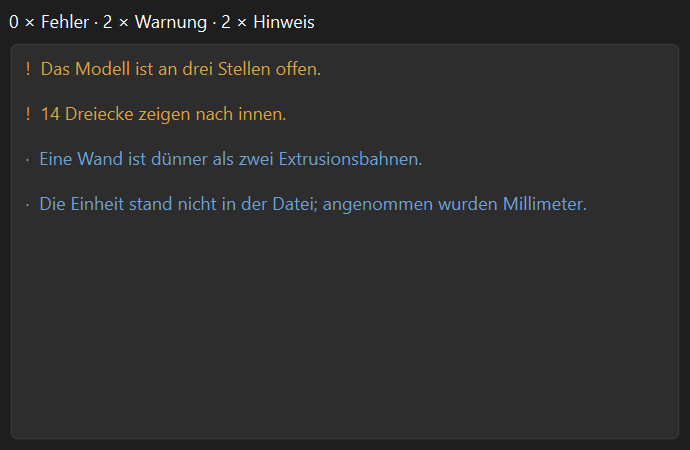
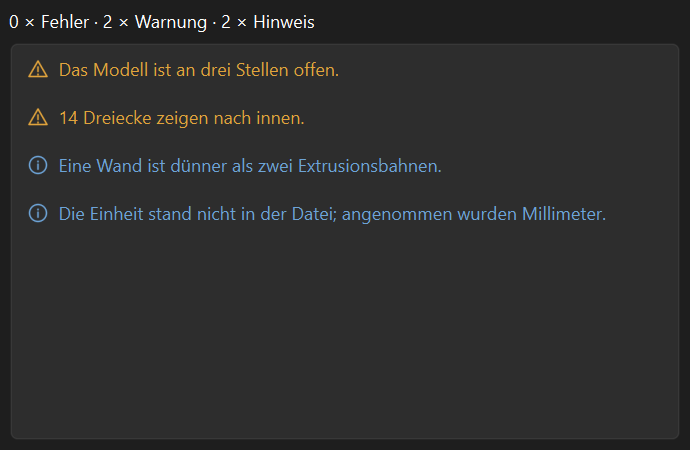
Ein Ausrufezeichen im Text war die Behelfslösung, die man ihr ansah
Die beiden anderen Stellen, an denen ein Zeichen mehr sagt als ein Zeichen.

**Der Prüfbericht** stellte den Schweregrad als „!" oder „·" vor den Text. Das
erfüllte Regel 18 — Bedeutung nie allein über Farbe —, sah aber nach Behelf
aus. Jetzt tragen Warndreieck, Info-Kreis und Fehler-Achteck die Form, die
Farbe verstärkt sie nur. Das sind Zeichen, die niemand lernen muss, und sie
bleiben lesbar, wo die Farbe nicht ankommt.

**Die Erstinbetriebnahme** setzte ein Plus- und ein Minuszeichen vor jedes
externe Programm. Das war die kryptischste Stelle im allerersten Dialog, den
ein neuer Benutzer sieht. Dort stehen jetzt Wörter: „gefunden — OpenSCAD: …",
„fehlt — Ollama: Antwortet nicht …". Ein Icon wäre hier falsch gewesen; die
Zeile ist Fließtext, kein Listeneintrag, und zwei gesparte Zeichen sind kein
Grund zum Raten.

`icons.icon()` nimmt jetzt eine Farbe entgegen — der Prüfbericht braucht sie je
Schweregrad, die Werkzeugzeile bleibt bei der Textfarbe.

Zwei Tests halten fest, dass jeder Befund sein Zeichen trägt und dass keine
Zeile mehr mit einem nackten Marker beginnt.

diff --git a/app/ui/icons.py b/app/ui/icons.py
@@ -81,6 +81,19 @@ PATHS: Final[dict[str, str]] = {
         '<path d="M13.5 10.5 10.5 13.5" />'
         '<path d="M13.5 10.5h-3v3" />'
     ),
+    # Die Schweregrade des Prüfberichts. Hier ist Ikonografie ausnahmsweise
+    # etabliert: Dreieck warnt, Kreis erklärt, Achteck hält an — die Form trägt
+    # allein, auch wo die Farbe wegfällt (Regel 18).
+    "severity-info": (
+        '<circle cx="12" cy="12" r="8.5" /><path d="M12 11.2v5" /><path d="M12 8.2v.6" />'
+    ),
+    "severity-warning": (
+        '<path d="M12 4 21 19.5H3z" /><path d="M12 10v4.5" /><path d="M12 17.2v.6" />'
+    ),
+    "severity-error": (
+        '<path d="M8.6 3.5h6.8L20.5 8.6v6.8L15.4 20.5H8.6L3.5 15.4V8.6z" />'
+        '<path d="M9.4 9.4l5.2 5.2" /><path d="M14.6 9.4l-5.2 5.2" />'
+    ),
     # Ein Pinsel, der eine Fläche einfärbt.
     "paint": (
         '<path d="M5 13.5 13.5 5a2.5 2.5 0 0 1 3.5 3.5L8.5 17z" />'
@@ -98,18 +111,18 @@ def svg_source(name: str, colour: str) -> str:
     return f"{_HEAD}{body}</svg>".replace("currentColor", colour)
 
 
-def icon(name: str, widget: QWidget, *, scale: float = 1.35) -> QIcon:
+def icon(name: str, widget: QWidget, *, scale: float = 1.35, colour: QColor | None = None) -> QIcon:
     """Ein Symbol in der Textfarbe und in der Größe der Schrift des Widgets.
 
     ``scale`` ist der Faktor auf die Zeilenhöhe: etwas größer als die Schrift,
     sonst verschwindet ein Strichsymbol neben dem Wort daneben.
     """
-    colour = widget.palette().windowText().color()
-    source = svg_source(name, colour.name())
+    tone = colour or widget.palette().windowText().color()
+    source = svg_source(name, tone.name())
     if not source:
         return QIcon()
     size = max(int(widget.fontMetrics().height() * scale), 12)
-    return QIcon(_pixmap(source, size, colour))
+    return QIcon(_pixmap(source, size, tone))
 
 
 def _pixmap(source: str, size: int, colour: QColor) -> QPixmap:

diff --git a/tests/test_ui.py b/tests/test_ui.py
@@ -346,3 +346,39 @@ def test_symbols_render_and_follow_the_text_colour(qt_app: QApplication) -> None
         assert source.startswith("<svg"), name
         assert "currentColor" not in source, f"{name} hängt an einer festen Farbe"
         assert "#ff0000" in source, name
+
+
+def test_findings_carry_their_severity_as_a_shape(qt_app: QApplication) -> None:
+    """Regel 18: die Form trägt den Schweregrad, die Farbe verstärkt ihn nur.
+
+    Vorher stand ein „!" oder ein „·" im Text der Zeile. Das erfüllte die Regel,
+    sah aber nach Behelf aus — und Warndreieck, Info-Kreis und Fehler-Achteck
+    sind Zeichen, die niemand lernen muss.
+    """
+    from app.core.types import Finding
+    from app.ui.panels import ReportPanel
+
+    panel = ReportPanel()
+    panel.add_findings(
+        [
+            Finding(code="a.b", severity="error", message="kaputt"),
+            Finding(code="c.d", severity="warning", message="offen"),
+            Finding(code="e.f", severity="info", message="dünn"),
+        ]
+    )
+
+    assert panel.list.count() == 3
+    for row in range(panel.list.count()):
+        item = panel.list.item(row)
+        assert not item.icon().isNull(), item.text()
+        assert not item.text().startswith(("!", "·", "X")), "der Marker steckt jetzt im Zeichen"
+
+
+def test_the_first_run_says_found_and_missing_in_words(qt_app: QApplication) -> None:
+    """„+" und „−" waren die kryptischste Stelle im allerersten Dialog."""
+    from app.ui.first_run import _tool_text
+
+    text = _tool_text()
+
+    assert "gefunden" in text or "fehlt" in text
+    assert not any(line.startswith(("+ ", "- ")) for line in text.splitlines())

diff --git a/app/ui/panels.py b/app/ui/panels.py
@@ -32,6 +32,7 @@ from app.core.scene import EvaluationResult
 from app.core.types import Document, Finding, ObjectId
 from app.core.units import format_length
 from app.i18n import tr
+from app.ui.icons import icon
 from app.ui.labels import feature_label
 from app.ui.palette import SEVERITY_ENCODING
 
@@ -330,9 +331,15 @@ class ReportPanel(QWidget):
 
     def _append(self, finding: Finding) -> None:
         """Einen Befund als Eintrag anhängen."""
-        item = QListWidgetItem(f"{SEVERITY_MARKER[finding.severity]}  {finding.message}")
+        encoding = SEVERITY_ENCODING[finding.severity]
+        item = QListWidgetItem(str(finding.message))
+        # Die Form trägt den Schweregrad, die Farbe verstärkt ihn nur: ein
+        # Dreieck bleibt ein Dreieck, auch wo die Farbe nicht ankommt.
+        item.setIcon(
+            icon(f"severity-{finding.severity}", self.list, colour=QColor(encoding.colour))
+        )
         item.setData(Qt.ItemDataRole.UserRole, finding)
-        item.setForeground(QColor(SEVERITY_ENCODING[finding.severity].colour))
+        item.setForeground(QColor(encoding.colour))
         # §22.5: woher eine Zahl kommt, ist Teil des Befunds und wird nie dem
         # Leser zum Annehmen überlassen — eine Schätzung ist keine Messung.
         details = [f"{tr('Herkunft')}: {origin_label(finding.source)}"]

diff --git a/app/ui/first_run.py b/app/ui/first_run.py
@@ -30,10 +30,11 @@ from app.core.knowledge import profiles
 from app.i18n import SUPPORTED_LANGUAGES, language_name, tr
 from app.ui.settings import UiSettings
 
-#: Ein Zeichen je Zustand, damit sich die Liste auch ohne Farbe
-#: liest (§19.1).
-FOUND = "+"
-MISSING = "-"
+#: Der Zustand jedes Programms steht als Wort in der Zeile, damit sich die
+#: Liste auch ohne Farbe liest (§19.1). Vorher stand dort ein Plus- und ein
+#: ein Minuszeichen — beides kurz, beides zu raten. In der einzigen Liste,
+#: die jemand beim allerersten Start zu lesen bekommt, ist das ein schlechter
+#: Tausch für zwei gesparte Zeichen.
 
 
 class FirstRunDialog(QDialog):
@@ -160,11 +161,11 @@ def _tool_text() -> str:
     """
     lines = []
     for state in tools.survey():
-        marker = FOUND if state.available else MISSING
+        marker = tr("gefunden") if state.available else tr("fehlt")
         where = str(state.path) if state.path else state.tool.address()
         if not state.available:
             where = str(state.explain())
-        lines.append(f"{marker} {state.tool.title}: {where}\n   {state.tool.what_for}")
+        lines.append(f"{marker} — {state.tool.title}: {where}\n   {state.tool.what_for}")
     return "\n".join(lines)
 
 
